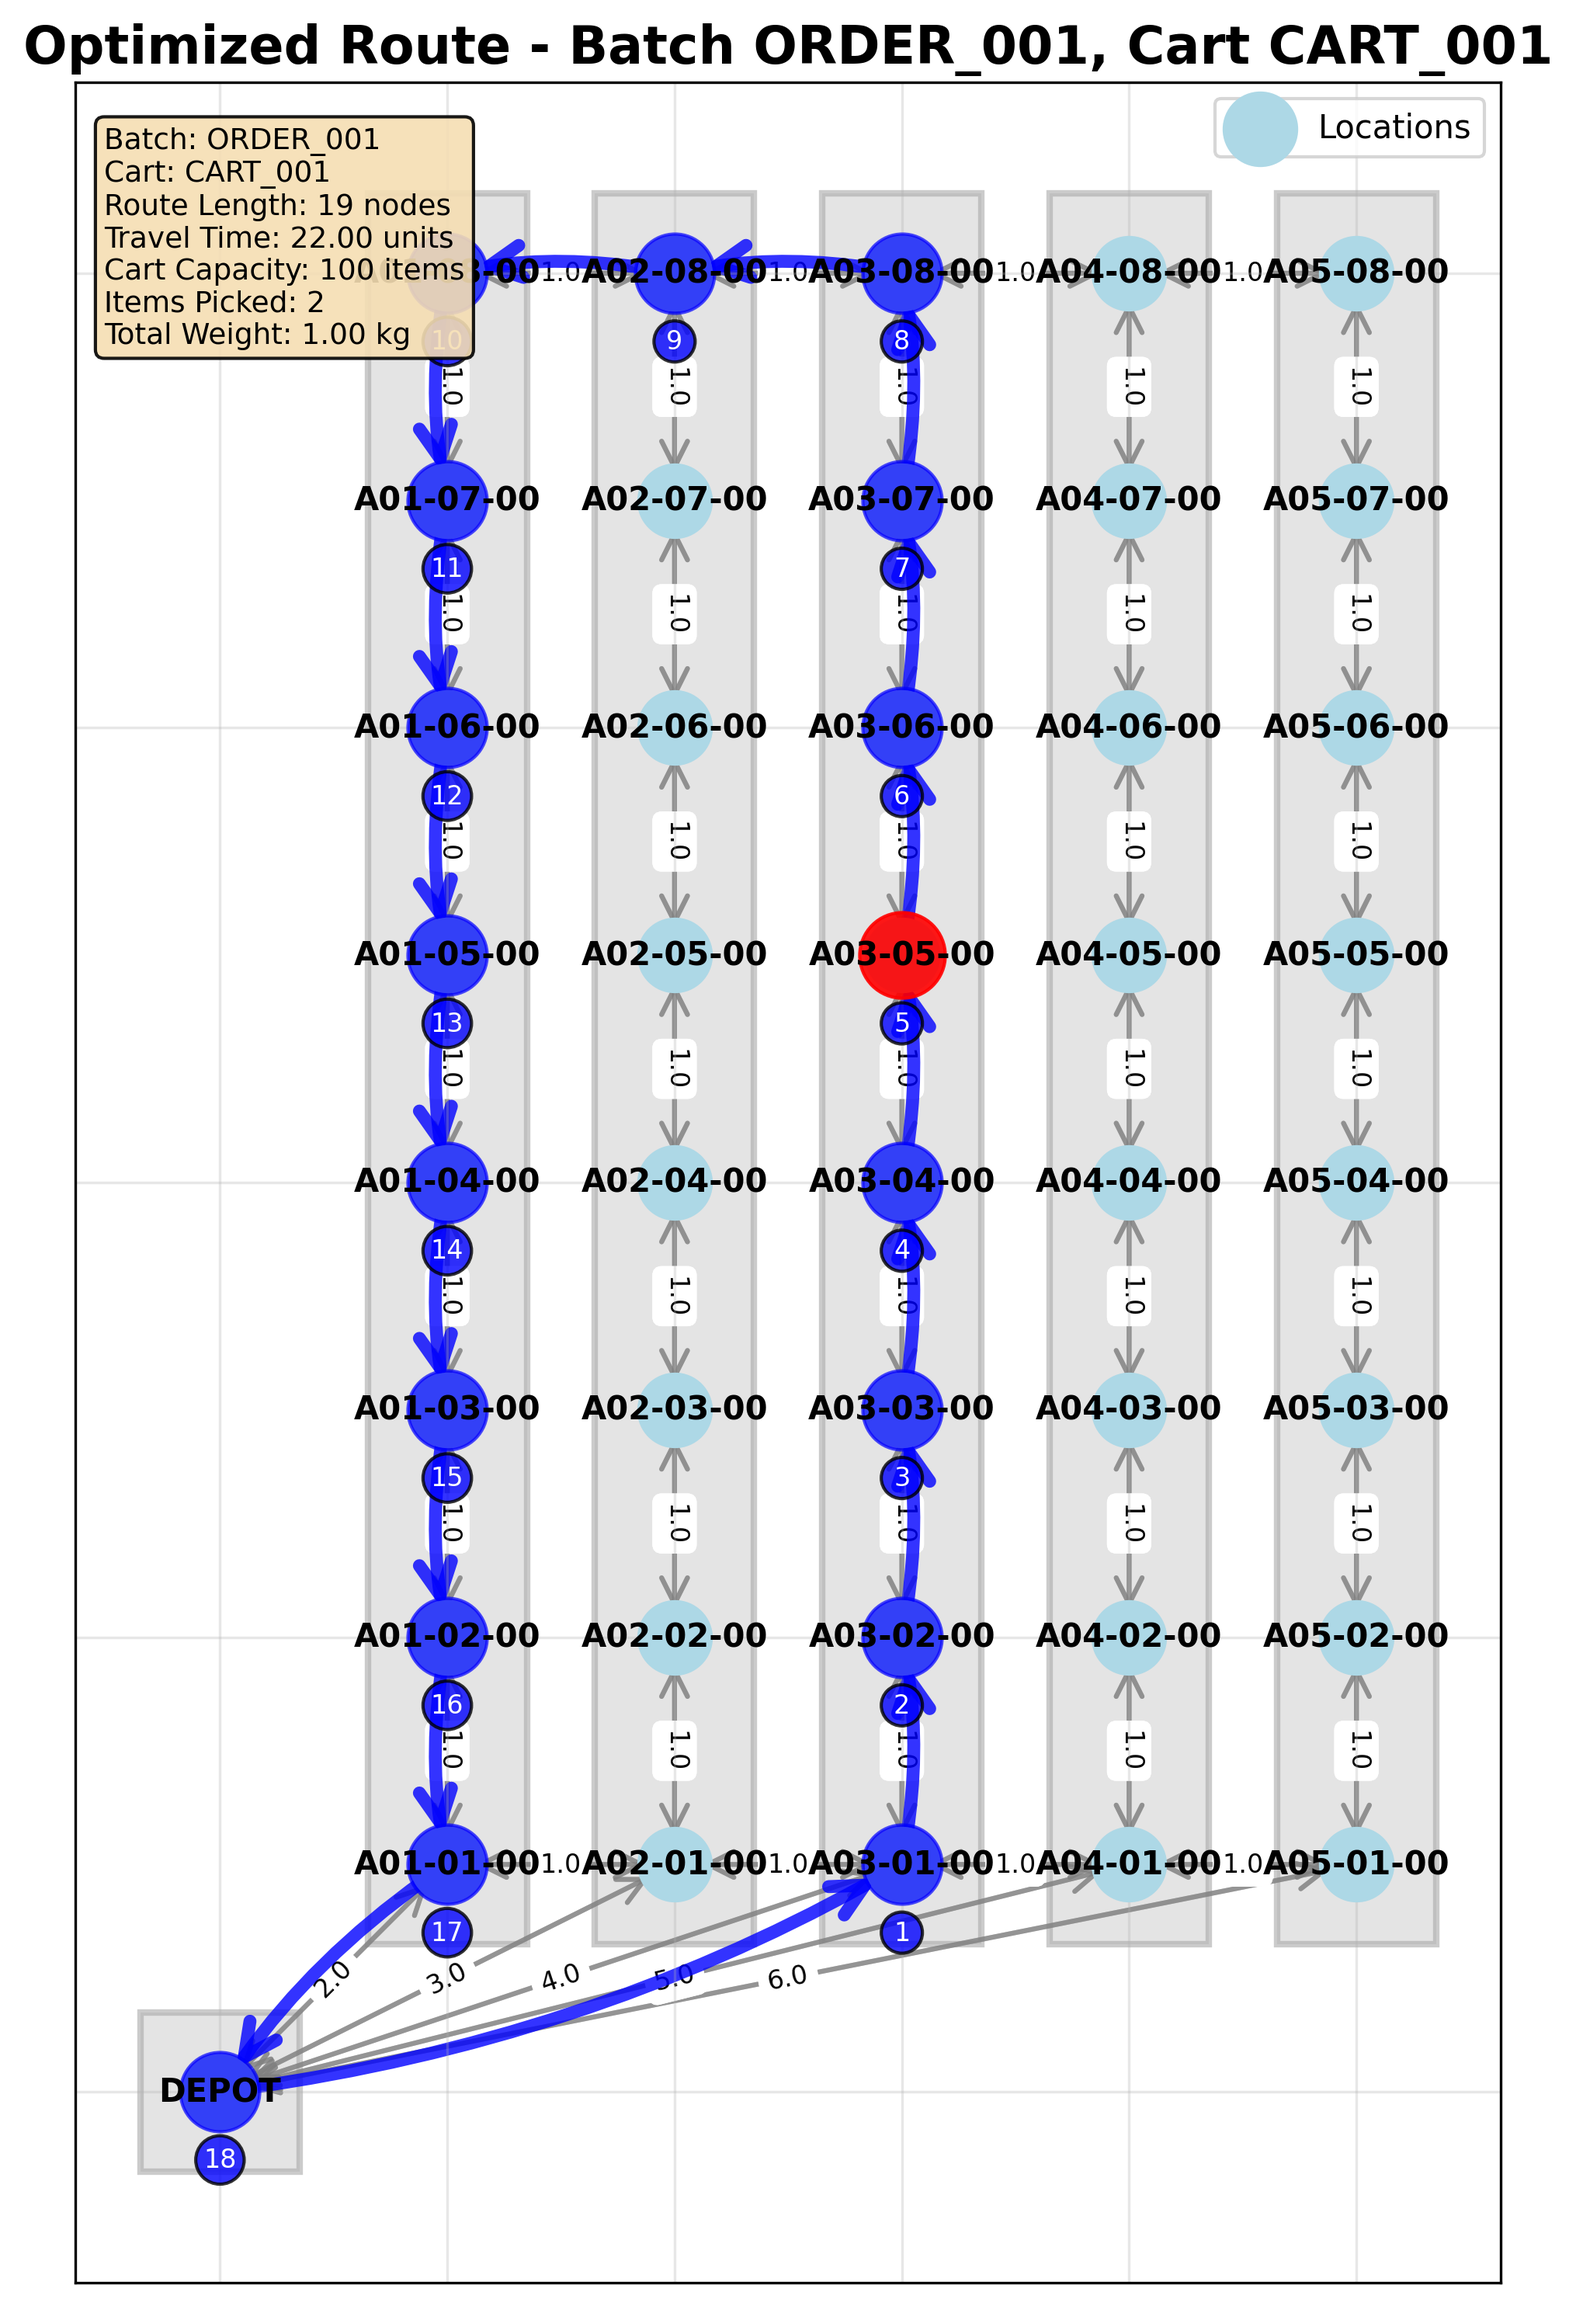
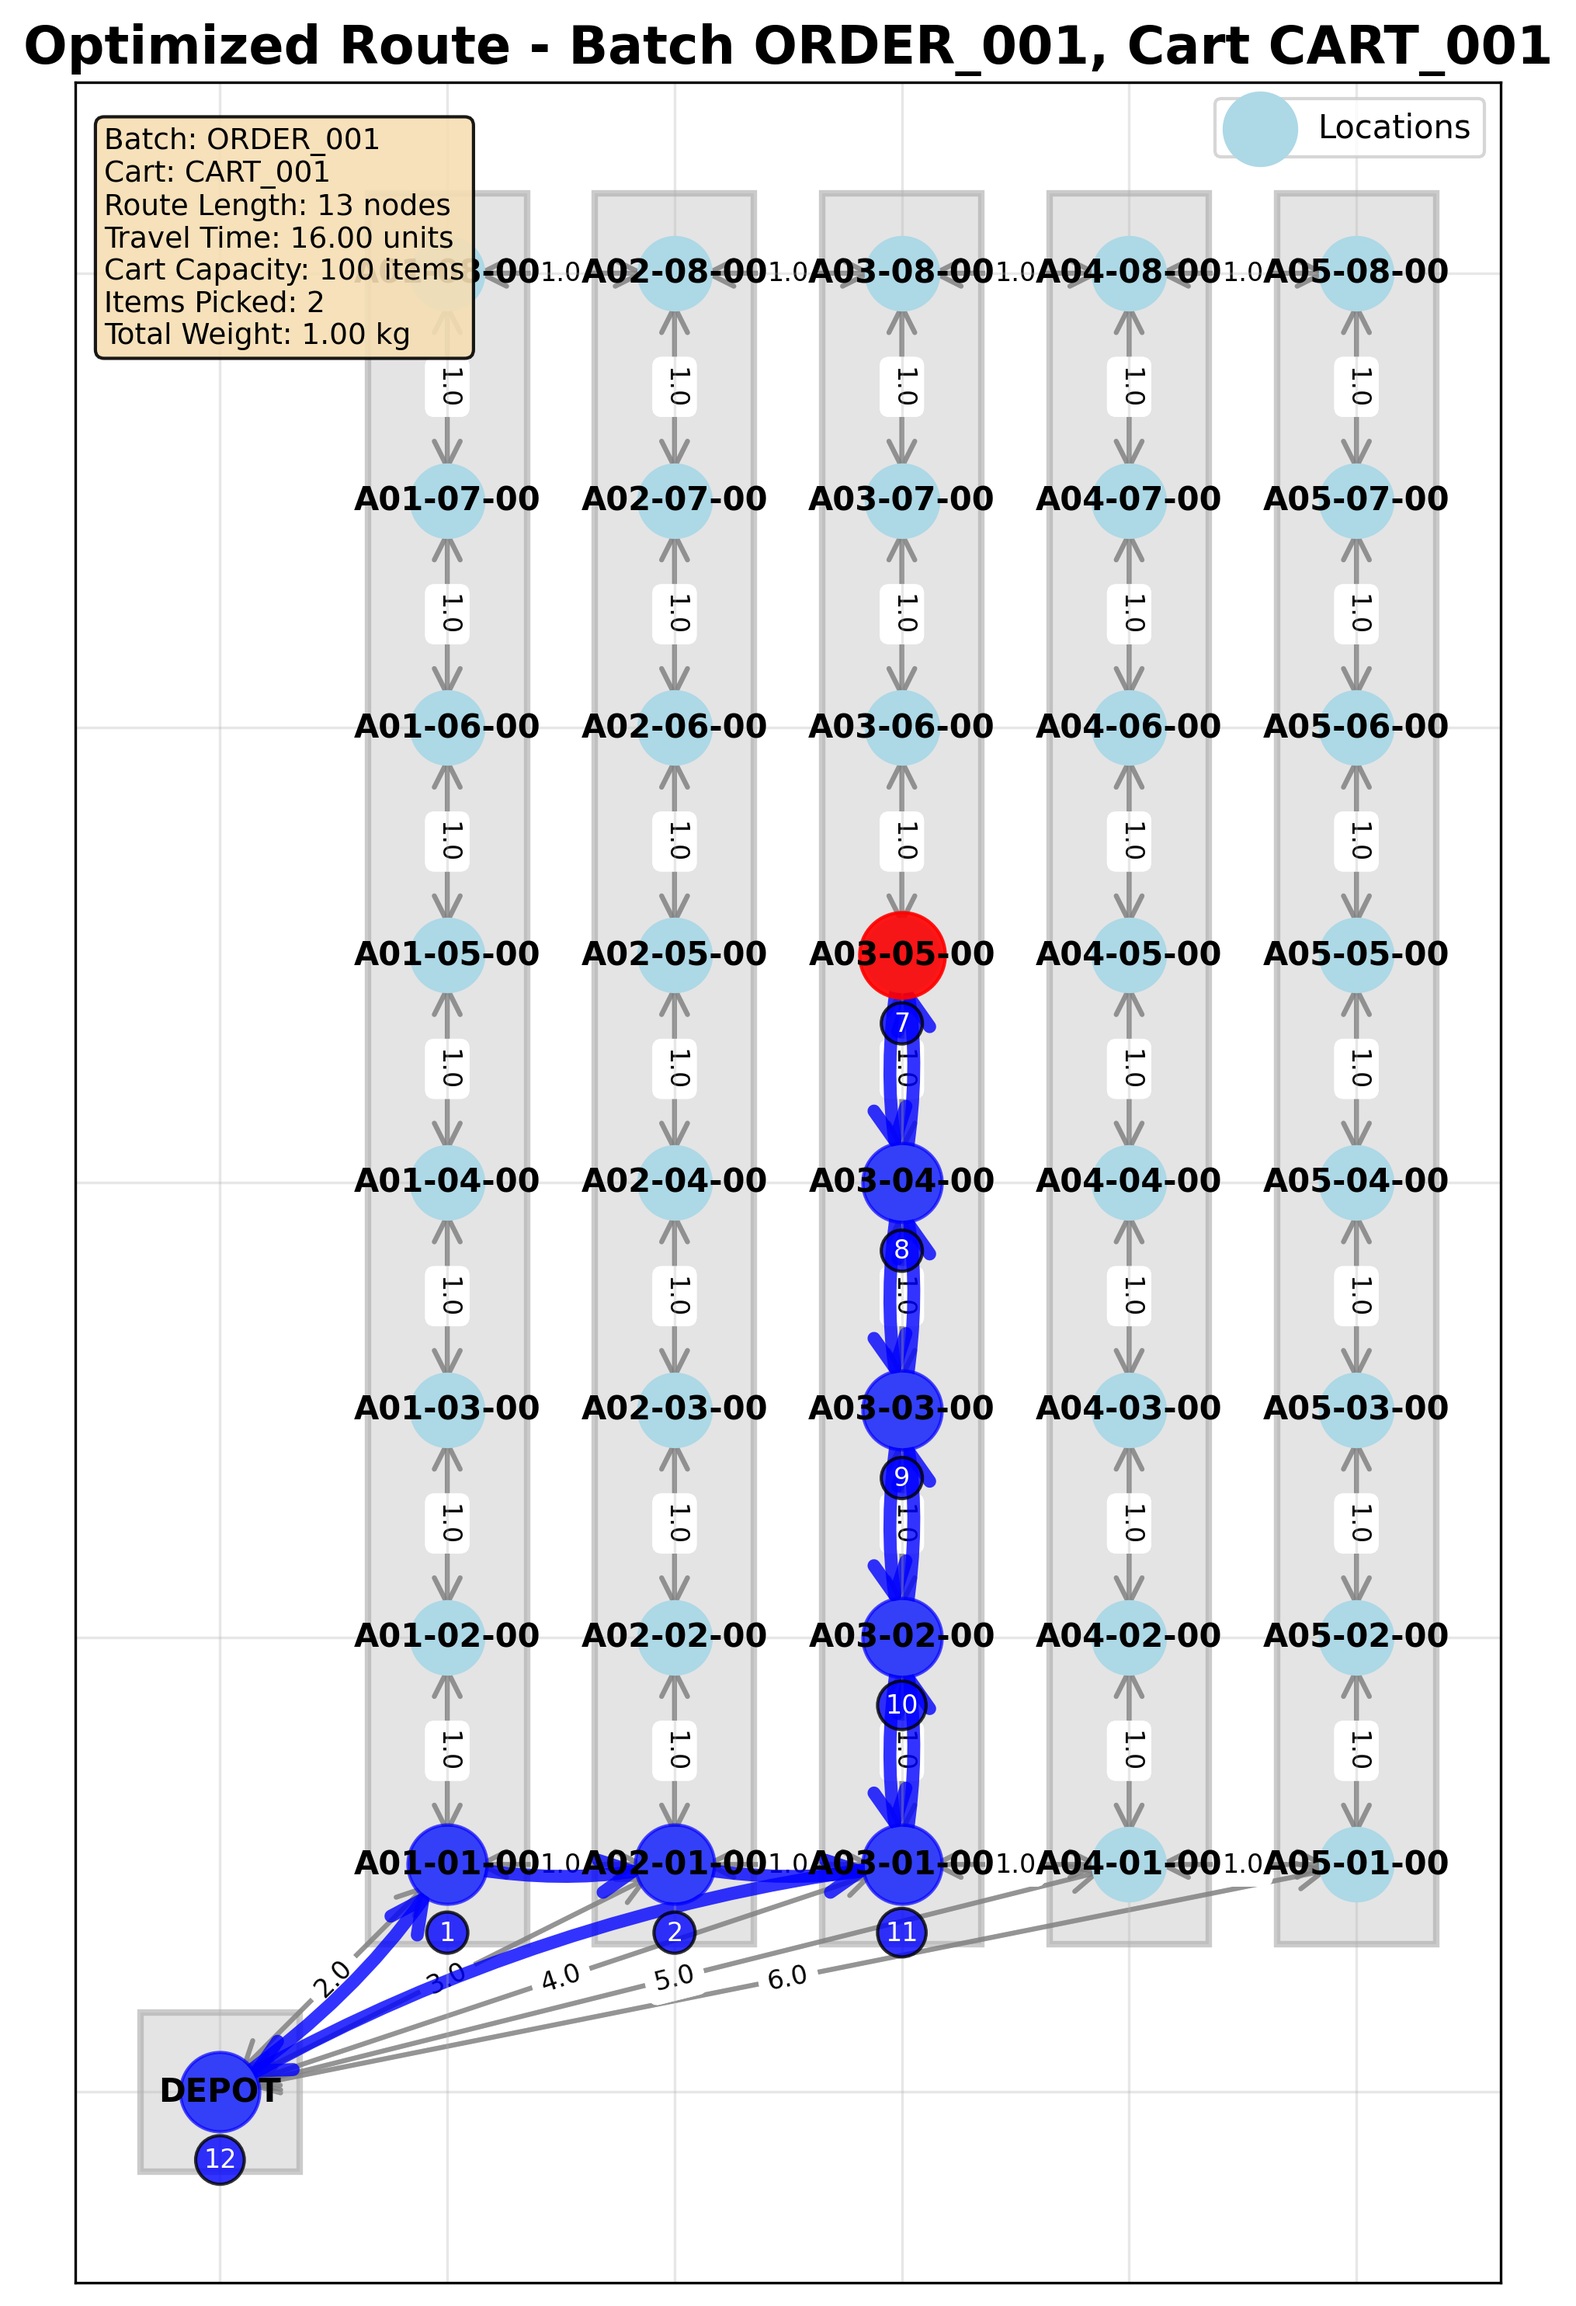
flow-based subtour elimination

diff --git a/optimizer/route_optimizer.py b/optimizer/route_optimizer.py
@@ -44,39 +44,47 @@ class OptimizedRoute:
         self.total_time += segment.travel_time
     
     def get_node_sequence(self) -> List[str]:
-        """Get ordered list of nodes in the route by following edges from start."""
+        """Get ordered list of nodes using Hierholzer's algorithm for Eulerian path."""
         if not self.segments:
             return []
 
-        # Build adjacency list (from_node -> [to_nodes]) to handle multiple visits
+        # Build adjacency list with edge indices
         from collections import defaultdict
         adjacency = defaultdict(list)
+        for idx, seg in enumerate(self.segments):
+            adjacency[seg.from_node].append((seg.to_node, idx))
+
+        # Find starting node (node with outgoing > incoming, or DEPOT)
+        in_degree = defaultdict(int)
+        out_degree = defaultdict(int)
         for seg in self.segments:
-            adjacency[seg.from_node].append(seg.to_node)
+            out_degree[seg.from_node] += 1
+            in_degree[seg.to_node] += 1
 
-        # Find starting node (prefer DEPOT)
-        all_from = set(seg.from_node for seg in self.segments)
-        if 'DEPOT' in all_from:
-            current = 'DEPOT'
-        else:
-            # Find node with outgoing edge but no incoming
-            all_to = set(seg.to_node for seg in self.segments)
-            start_candidates = all_from - all_to
-            current = list(start_candidates)[0] if start_candidates else self.segments[0].from_node
+        start = 'DEPOT'
+        for node in adjacency:
+            if out_degree[node] > in_degree[node]:
+                start = node
+                break
 
-        # Follow the path by consuming edges
-        sequence = [current]
-        edges_used = 0
-        max_edges = len(self.segments)
+        # Hierholzer's algorithm to find Eulerian path
+        stack = [start]
+        path = []
+        used_edges = set()
 
-        while current in adjacency and adjacency[current] and edges_used < max_edges:
-            # Take the next available edge from current node
-            next_node = adjacency[current].pop(0)
-            sequence.append(next_node)
-            edges_used += 1
-            current = next_node
+        while stack:
+            current = stack[-1]
+            if adjacency[current]:
+                # Take next unused edge
+                next_node, edge_idx = adjacency[current].pop(0)
+                if edge_idx not in used_edges:
+                    used_edges.add(edge_idx)
+                    stack.append(next_node)
+            else:
+                # No more edges from current, backtrack
+                path.append(stack.pop())
 
-        return sequence
+        return list(reversed(path))
 
 
 class RouteOptimizer:
@@ -280,8 +288,8 @@ class RouteOptimizer:
     
     def _add_flow_conservation_constraints(self, r_vars: Dict, visit_vars: Dict,
                                           batches: List[Batch], carts: List[Cart]) -> None:
-        """Add flow conservation allowing round trips: inflow = outflow, max 2 visits per edge."""
-        logger.debug("Adding flow conservation constraints")
+        """Add simple flow conservation: inflow = outflow for all nodes."""
+        logger.info("Adding flow conservation constraints")
         constraint_count = 0
 
         for batch in batches:
@@ -290,50 +298,32 @@ class RouteOptimizer:
                     continue
 
                 for node_id in self.graph.nodes:
-                    # Sum of incoming edges
+                    # Sum of incoming and outgoing edges
                     inflow = sum(r_vars.get((j, node_id, batch.id, cart.id), 0)
                                for j in self.graph.nodes if (j, node_id, batch.id, cart.id) in r_vars)
-
-                    # Sum of outgoing edges
                     outflow = sum(r_vars.get((node_id, j, batch.id, cart.id), 0)
                                 for j in self.graph.nodes if (node_id, j, batch.id, cart.id) in r_vars)
 
-                    # Flow conservation: what comes in must go out
+                    # Flow balance: what comes in must go out
                     self.model.add_constraint(
                         inflow == outflow,
-                        ctname=f"flow_balance_{node_id}_{batch.id}_{cart.id}"
+                        ctname=f"flow_{node_id}_{batch.id}_{cart.id}"
                     )
                     constraint_count += 1
 
-                    # Limit flow to at most 2 (allows round trip on same edges)
-                    self.model.add_constraint(
-                        inflow <= 2,
-                        ctname=f"max_inflow_{node_id}_{batch.id}_{cart.id}"
-                    )
-                    self.model.add_constraint(
-                        outflow <= 2,
-                        ctname=f"max_outflow_{node_id}_{batch.id}_{cart.id}"
-                    )
-                    constraint_count += 2
-
-                    visit = visit_vars.get((node_id, batch.id, cart.id), 0)
-
                     if node_id == batch.depot_id:
-                        # Depot: inflow = outflow = visit (must all be 1)
+                        # Depot: exactly 1 in, 1 out (start and end at depot)
                         self.model.add_constraint(
-                            inflow == visit,
-                            ctname=f"depot_in_eq_visit_{batch.id}_{cart.id}"
+                            outflow == 1,
+                            ctname=f"depot_out_{batch.id}_{cart.id}"
                         )
-                        self.model.add_constraint(
-                            outflow == visit,
-                            ctname=f"depot_out_eq_visit_{batch.id}_{cart.id}"
-                        )
-                        constraint_count += 2
+                        constraint_count += 1
                     else:
-                        # Non-depot: if visit=1, must have inflow >= 1
+                        # Non-depot nodes: if visit=1, must have flow
+                        visit = visit_vars.get((node_id, batch.id, cart.id), 0)
                         self.model.add_constraint(
                             inflow >= visit,
-                            ctname=f"visit_needs_flow_{node_id}_{batch.id}_{cart.id}"
+                            ctname=f"visit_flow_{node_id}_{batch.id}_{cart.id}"
                         )
                         constraint_count += 1
 
@@ -353,18 +343,8 @@ class RouteOptimizer:
 
         for batch in batches:
             required_locations = batch.get_required_locations()
-            pick_locations = {loc for loc in required_locations if loc != batch.depot_id}
-            logger.info(f"Batch {batch.id} requires visits to pick locations: {pick_locations}")
-
-            # Force depot visit = 1 (ensures route starts and ends at depot)
-            for cart in carts:
-                if batch.can_fit_in_cart(cart):
-                    depot_visit = visit_vars.get((batch.depot_id, batch.id, cart.id), 0)
-                    self.model.add_constraint(
-                        depot_visit == 1,
-                        ctname=f"depot_must_visit_{batch.id}_{cart.id}"
-                    )
-                    constraint_count += 1
+            pick_locations = [loc for loc in required_locations if loc != batch.depot_id]
+            logger.info(f"Batch {batch.id} requires {len(pick_locations)} pick locations")
 
             for location in pick_locations:
                 if location not in self.graph.nodes:
@@ -402,7 +382,7 @@ class RouteOptimizer:
         For nodes with visit=1, we enforce ordering.
         For nodes with visit=0 (pass-through), no ordering constraint.
         """
-        logger.info("Adding standard MTZ subtour elimination")
+        logger.info("Adding flow-based subtour elimination")
         constraint_count = 0
         n = len(self.graph.nodes)
 
@@ -411,26 +391,54 @@ class RouteOptimizer:
                 if not batch.can_fit_in_cart(cart):
                     continue
 
-                for (i, j, b_id, k_id), var in r_vars.items():
-                    if b_id != batch.id or k_id != cart.id:
-                        continue
+                # Create commodity flow variables
+                # f[i,j] = amount of "potential" flowing on edge (i,j)
+                f_vars = {}
+                for (i, j, b_id, k_id), route_var in r_vars.items():
+                    if b_id == batch.id and k_id == cart.id:
+                        f_var_name = f"f_{i}_{j}_{batch.id}_{cart.id}"
+                        f_vars[(i, j, batch.id, cart.id)] = self.model.continuous_var(
+                            lb=0, ub=n-1, name=f_var_name
+                        )
 
-                    # Skip depot edges
-                    if i == batch.depot_id or j == batch.depot_id:
-                        continue
+                # Flow conservation: depot is source, other nodes consume if visited
+                for node_id in self.graph.nodes:
+                    f_inflow = sum(f_vars.get((j, node_id, batch.id, cart.id), 0)
+                                  for j in self.graph.nodes
+                                  if (j, node_id, batch.id, cart.id) in f_vars)
+                    f_outflow = sum(f_vars.get((node_id, j, batch.id, cart.id), 0)
+                                   for j in self.graph.nodes
+                                   if (node_id, j, batch.id, cart.id) in f_vars)
 
-                    order_i = order_vars.get((i, batch.id, cart.id), 0)
-                    order_j = order_vars.get((j, batch.id, cart.id), 0)
+                    if node_id == batch.depot_id:
+                        # Depot: supplies commodity = number of visited non-depot nodes
+                        supply = sum(visit_vars.get((nid, batch.id, cart.id), 0)
+                                   for nid in self.graph.nodes if nid != batch.depot_id)
+                        self.model.add_constraint(
+                            f_outflow - f_inflow == supply,
+                            ctname=f"flow_depot_{batch.id}_{cart.id}"
+                        )
+                        constraint_count += 1
+                    else:
+                        # Non-depot: consumes 1 unit if visited
+                        visit = visit_vars.get((node_id, batch.id, cart.id), 0)
+                        self.model.add_constraint(
+                            f_inflow - f_outflow == visit,
+                            ctname=f"flow_node_{node_id}_{batch.id}_{cart.id}"
+                        )
+                        constraint_count += 1
 
-                    # Standard MTZ: if edge (i,j) is used, order[j] >= order[i] + 1
-                    # order[j] >= order[i] + 1 - n*(1 - r[i,j])
-                    self.model.add_constraint(
-                        order_j >= order_i + 1 - n * (1 - var),
-                        ctname=f"mtz_{i}_{j}_{batch.id}_{cart.id}"
-                    )
-                    constraint_count += 1
+                # Link flow to route: f[i,j] <= (n-1) * r[i,j]
+                for (i, j, b_id, k_id), route_var in r_vars.items():
+                    if b_id == batch.id and k_id == cart.id:
+                        f_var = f_vars.get((i, j, batch.id, cart.id), 0)
+                        self.model.add_constraint(
+                            f_var <= (n-1) * route_var,
+                            ctname=f"flow_link_{i}_{j}_{batch.id}_{cart.id}"
+                        )
+                        constraint_count += 1
 
-        logger.info(f"Added {constraint_count} MTZ subtour elimination constraints")
+        logger.info(f"Added {constraint_count} flow-based constraints")
     
     def _extract_routes(self, solution, r_vars: Dict, batches: List[Batch],
                        carts: List[Cart]) -> Dict[str, OptimizedRoute]:
